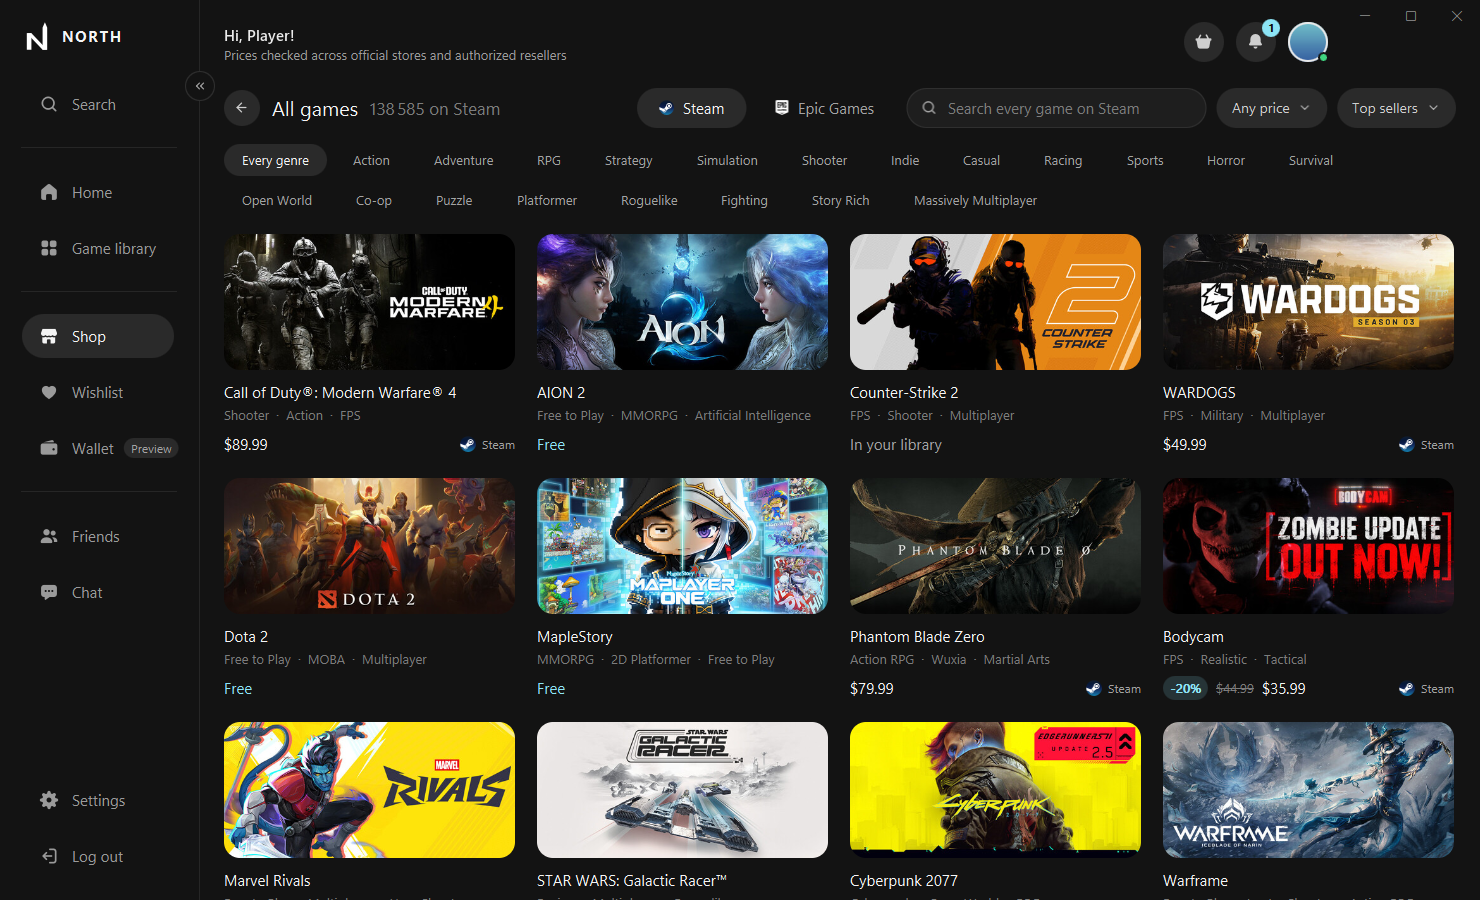
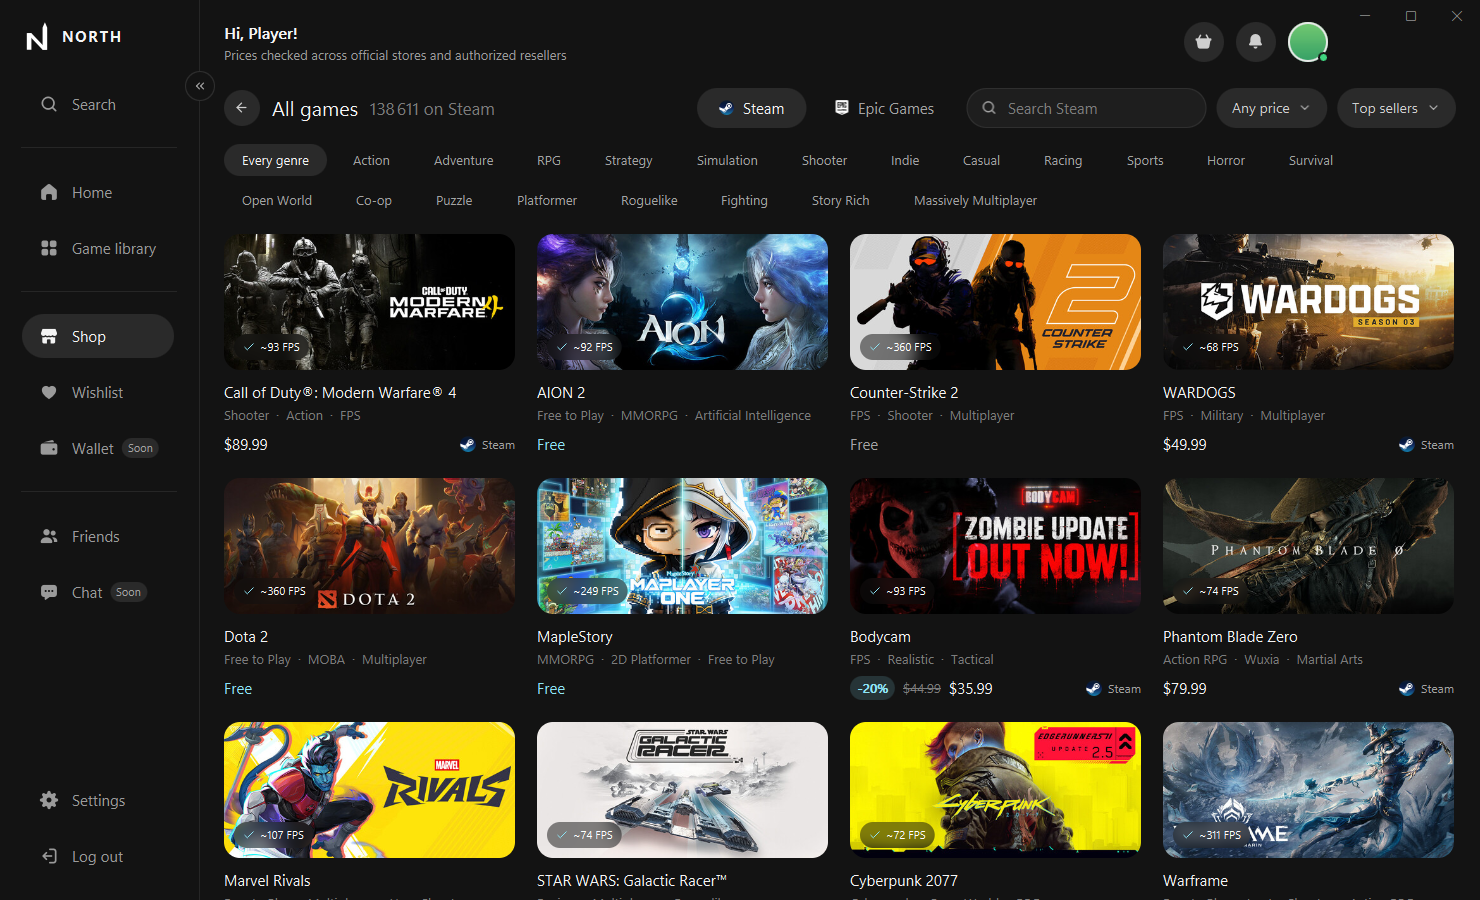
North 0.5.0: a warmer page, in English and French, with what's under the hood

diff --git a/README.md b/README.md
@@ -5,34 +5,68 @@
 <h1 align="center">North</h1>
 
 <p align="center">
-  <b>One library for every game you own.</b><br>
-  Steam, Epic Games, GOG, Amazon Games, Ubisoft Connect, EA, Battle.net and Rockstar, in one fast launcher.
+  <b>All your games. One home.</b><br>
+  Steam, Epic Games, GOG, Amazon Games, Ubisoft Connect, EA, Battle.net and Rockstar,<br>
+  together in one launcher that opens before you've let go of the mouse.
 </p>
 
 <p align="center">
-  <a href="https://github.com/JeremGamingYT/North-Launcher/releases/latest"><b>Download for Windows</b></a>
+  <a href="https://github.com/JeremGamingYT/North-Launcher/releases/latest"><b>⬇ Download for Windows</b></a>
   &nbsp;·&nbsp; Windows 10 and 11, 64-bit &nbsp;·&nbsp; free
+  <br><br>
+  <b>English</b> &nbsp;·&nbsp; <a href="README.fr.md">Français</a>
 </p>
 
 <p align="center">
   <img src="assets/screenshot-shop.png" alt="North's shop" width="100%">
 </p>
 
-## What North does
+## Why North?
 
-- **Your whole library in one place.** Every game from every account, with its real play time,
-  its achievements and the games installed on this PC.
-- **Install, update, play and uninstall.** On Steam, Epic, GOG and Amazon, from North itself.
-  Steam games can be installed without opening Steam, through Valve's own SteamCMD.
-- **A shop that compares.** Prices are checked across the official stores, with the best one
-  picked for you. It also has free games, deals, charts, a release calendar and a wishlist with
-  price alerts.
-- **It opens at once.** North shows its first screen about 50 ms after you start it.
-- **Universal search.** Every game you own or could buy, by name, genre or tag.
-- **Made for players.**
-  - "Can this PC run it?" for any game;
-  - controllers, the activity timeline and duplicates detection;
-  - game shortcuts and Discord status.
+You bought games on five stores over the years, and now each one wants its own launcher, its own
+updates and its own window in the notification area. Finding *that* game means remembering where
+you bought it.
+
+North puts them all back on one shelf. Your games, your play time and your achievements, from
+every account, in a launcher that's quick, quiet and pleasant to come back to. It runs on your PC
+only: no North account to create, no server of ours collecting your data.
+
+## What you get
+
+**🎮 One library**
+- Every game from every account, with its real play time and achievements.
+- Install, update, play and uninstall Steam, Epic, GOG and Amazon games from North itself.
+  Steam games can even be installed without opening Steam, through Valve's own SteamCMD.
+- Own a game on two stores? North tells you, and lets you pick which copy to install.
+- **Quick launch** (optional): press <kbd>Win</kbd>+<kbd>Alt</kbd>+<kbd>N</kbd> anywhere in
+  Windows, type a few letters, press Enter. You're playing.
+
+**🛒 A shop that looks out for you**
+- Prices compared across the official stores, with the best one picked for you.
+- Each game says whether **your PC can run it**, right on its card, deals included.
+- Already own it elsewhere? North warns you **before** you buy it a second time.
+- Free games, deals, charts, a release calendar, and a wishlist with price alerts.
+
+**📅 Your time, your way**
+- **Scheduled downloads:** updates (and new installs, if you like) wait for the night, or
+  whenever your connection is free.
+- Downloads pause while you play, then pick up where they left off.
+
+**✨ Your year in games**
+- A yearly review on your profile: hours played, your top games, month by month, when you play,
+  your genres and platforms, your longest session. Save it as a picture to share.
+
+**👋 North friends**
+- Swap North codes with a friend and see each other's North profile: play time, showcase, recent
+  games. Encrypted end to end, no account needed, no server of ours involved.
+
+**⚡ Fast, really**
+- The first screen shows about **50 ms** after you start North. While a game runs, North steps
+  aside and uses almost nothing.
+
+**🌍 In your language**
+- English, Français, Español, Deutsch, Italiano and Português (Brasil): the interface, but also
+  the shop's descriptions, the dates and the achievements.
 
 <p align="center">
   <img src="assets/screenshot-browse.png" alt="Every game on Steam and Epic" width="100%">
@@ -44,49 +78,87 @@ Take the files from the **[latest release](https://github.com/JeremGamingYT/Nort
 
 | File | For |
 |---|---|
-| `North-Setup-<version>.exe` | **Recommended.** Installs North for you alone, with no administrator rights, and adds it to the Start menu and *Apps*. It can also get the account tools right away (Epic, GOG, Amazon, SteamCMD), so signing in never waits. |
-| `North-<version>-win64.zip` | If you'd rather not run an installer. Unzip anywhere and start `North.exe`. The account tools download the first time they're needed. |
+| `North-Setup-<version>.exe` | **Recommended.** Installs North for you alone, with no administrator rights, and adds it to the Start menu and *Apps*. It asks a few first choices (opening animation, quick launch) and can get the account tools ready right away (Epic, GOG, Amazon, SteamCMD). |
+| `North-<version>-win64.zip` | If you'd rather not run an installer. Unzip anywhere and start `North.exe`. |
 | `SHA256SUMS.txt` | The fingerprints of both files. |
 
-To check a download, run this in PowerShell and compare with `SHA256SUMS.txt`:
-
-```powershell
-Get-FileHash .\North-Setup-0.4.0.exe -Algorithm SHA256
-```
+North then **updates itself**: it asks once per version, and every update is checked against
+North's signature before it runs.
 
 > **About the SmartScreen warning.** North isn't code-signed yet, so Windows may say it doesn't
-> recognise the publisher. Choose *More info* → *Run anyway*. You can also check the file's
-> fingerprint first, as above.
+> recognise the publisher. Choose *More info* → *Run anyway*. To be sure the file is the real one,
+> compare its fingerprint with `SHA256SUMS.txt` first:
+> ```powershell
+> Get-FileHash .\North-Setup-0.5.0.exe -Algorithm SHA256
+> ```
 
 ## Your accounts stay yours
 
 - **Your passwords are never kept.** They go straight to each platform's own sign-in.
 - **Sign-ins are encrypted on your PC** with Windows' own protection (DPAPI). Copied to another
   PC, they can't be read.
-- **North has no server.** Your library, settings and sign-ins live only on your PC. Your IP
-  address is seen only by the platforms North talks to, as with their own launchers.
-- **Every connection is HTTPS,** pictures included.
-- **Each tool North downloads is verified before it runs:** pinned fingerprints, or Valve's
-  signature for SteamCMD.
+- **North has no server.** Your library, settings and sign-ins live only on your PC.
+- **Every connection is encrypted** (HTTPS, pictures included), and each tool North downloads is
+  verified before it runs.
+- **North friends see only what you choose.** Set your profile to *Only you* and nothing is
+  published at all.
+
+## Under the hood
+
+For the curious. North is a native Windows application, built to start fast and stay light.
+
+| | |
+|---|---|
+| **Interface** | C++17 and Qt 5.15 Quick. The QML is compiled ahead of time; no interface source ships in the exe. |
+| **Rendering** | Direct3D 11 through ANGLE. About 120 ms sooner than the driver's OpenGL, same pixels. |
+| **Instant start** | A Win32 window paints the last first screen from its own thread before Qt is loaded (≈ 50 ms). The real window then takes its place on the same pixels. |
+| **Network** | WinHTTP (the system's TLS and certificates) on a dedicated pool; covers and store data are cached on disk and fetched ahead of where you point. |
+| **Stores** | Steam's Web API and SteamCMD; Epic, GOG and Amazon through the proven open-source tools [Legendary](https://github.com/legendary-gl/legendary), [gogdl](https://github.com/Heroic-Games-Launcher/heroic-gogdl) and [nile](https://github.com/imLinguin/nile), pinned and checked by SHA-256. |
+| **North friends** | A small Rust library inside North.exe speaking [Nostr](https://nostr.com): each profile is encrypted for one friend (NIP-44: secp256k1 ECDH, ChaCha20, HMAC-SHA256), signed (Schnorr) and passed through public relays over TLS. Relays only ever see opaque blobs. |
+| **Updates** | `update.json` signed with ECDSA P-256; the setup's size and SHA-256 are checked after download and again right before it runs. A security release can require every older version to update. |
+| **Hardening** | ASLR, DEP, Control Flow Guard (and CET shadow stacks in Setup); DLLs load only from North's folder and System32; no debug symbols, paths or keys in the binaries. |
+| **Footprint** | One ~10 MB executable plus Qt. No background service: North sleeps in the notification area, or not at all. |
+
+```mermaid
+flowchart LR
+  N[North.exe] -- Web API --> S[Steam]
+  N -- Legendary / gogdl / nile --> E[Epic · GOG · Amazon]
+  N -- reads local data --> L[Ubisoft · EA · Battle.net · Rockstar]
+  N -- encrypted profiles --> R[(Nostr relays)]
+  N -- signed update.json --> G[GitHub releases]
+```
+
+## Questions
+
+**Is North free?** Yes, to download and to use.
+
+**Does it replace Steam or Epic?** No, it works alongside them. Some games still need their
+store's launcher to run, and North never closes it behind your back.
+
+**Do I need a North account?** No. You sign in to your stores, and that's all.
+
+**Is the source code public?** Not for now. This repository holds the downloads and this page.
+
+**Something's wrong?** Open an [issue](https://github.com/JeremGamingYT/North-Launcher/issues).
+For a security problem, please write privately to the owner instead.
 
 ## Uninstall
 
-Go to *Settings › Apps › North › Uninstall*. Your games stay where they are. North's data
-(sign-ins, settings) is deleted only if you ask.
+*Settings › Apps › North › Uninstall.* Your games stay where they are. North's data (sign-ins,
+settings) is deleted only if you ask.
 
 ## Licences
 
-North is free to download and use; its source code isn't public. North includes or downloads
-third-party software, each under its own licence:
+North includes or downloads third-party software, each under its own licence:
 
 - **Qt 5.15**, LGPL-3.0. Dynamically linked and unmodified; source at
-  [download.qt.io](https://download.qt.io/archive/qt/5.15/).
-- **ANGLE**, BSD, shipped with Qt.
+  [download.qt.io](https://download.qt.io/archive/qt/5.15/). **ANGLE**, BSD, ships with Qt.
 - **QR Code generator** by Project Nayuki, MIT.
-- **Legendary, gogdl and nile**, GPL-3.0. They run as separate programs and are downloaded from
-  their official releases: [legendary](https://github.com/legendary-gl/legendary),
-  [heroic-gogdl](https://github.com/Heroic-Games-Launcher/heroic-gogdl),
-  [nile](https://github.com/imLinguin/nile).
+- **Rust libraries** inside North.exe ([nostr](https://github.com/rust-nostr/nostr), rustls, ring,
+  tungstenite, webpki-roots and their dependencies): MIT, Apache-2.0, ISC, BSD-3-Clause,
+  Unicode-3.0, CC0-1.0 and CDLA-Permissive-2.0.
+- **Legendary, gogdl and nile**, GPL-3.0. They run as separate programs, downloaded from their
+  official releases.
 - **SteamCMD,** Valve's own tool, downloaded from Valve.
 
 Steam, Epic Games, GOG, Amazon Games, Ubisoft Connect, EA, Battle.net and Rockstar are

diff --git a/README.fr.md b/README.fr.md
@@ -1,0 +1,174 @@
+<p align="center">
+  <img src="assets/north-256.png" width="96" alt="North">
+</p>
+
+<h1 align="center">North</h1>
+
+<p align="center">
+  <b>Tous vos jeux. Une seule maison.</b><br>
+  Steam, Epic Games, GOG, Amazon Games, Ubisoft Connect, EA, Battle.net et Rockstar,<br>
+  réunis dans un launcher qui s’ouvre avant que vous ayez lâché la souris.
+</p>
+
+<p align="center">
+  <a href="https://github.com/JeremGamingYT/North-Launcher/releases/latest"><b>⬇ Télécharger pour Windows</b></a>
+  &nbsp;·&nbsp; Windows 10 et 11, 64 bits &nbsp;·&nbsp; gratuit
+  <br><br>
+  <a href="README.md">English</a> &nbsp;·&nbsp; <b>Français</b>
+</p>
+
+<p align="center">
+  <img src="assets/screenshot-shop.png" alt="La boutique de North" width="100%">
+</p>
+
+## Pourquoi North ?
+
+Au fil des années, vous avez acheté des jeux sur cinq boutiques, et chacune veut maintenant son
+launcher, ses mises à jour et son icône dans la zone de notification. Retrouver *ce* jeu, c’est
+d’abord se souvenir d’où il vient.
+
+North les remet tous sur la même étagère. Vos jeux, votre temps de jeu et vos succès, de tous vos
+comptes, dans un launcher rapide, discret et agréable à retrouver. Il tourne uniquement sur votre
+PC : aucun compte North à créer, aucun serveur à nous qui collecterait vos données.
+
+## Ce que vous y trouvez
+
+**🎮 Une seule bibliothèque**
+- Tous les jeux de tous vos comptes, avec leur vrai temps de jeu et leurs succès.
+- Installez, mettez à jour, lancez et désinstallez vos jeux Steam, Epic, GOG et Amazon depuis
+  North. Les jeux Steam peuvent même s’installer sans ouvrir Steam, grâce à SteamCMD de Valve.
+- Un jeu possédé sur deux boutiques ? North vous le dit, et vous laisse choisir quel exemplaire
+  installer.
+- **Lancement rapide** (optionnel) : <kbd>Win</kbd>+<kbd>Alt</kbd>+<kbd>N</kbd> n’importe où dans
+  Windows, quelques lettres, Entrée. Vous jouez.
+
+**🛒 Une boutique qui veille sur vous**
+- Les prix comparés entre les boutiques officielles, le meilleur choisi pour vous.
+- Chaque jeu indique si **votre PC peut le faire tourner**, directement sur sa carte, promos
+  comprises.
+- Vous l’avez déjà ailleurs ? North vous prévient **avant** que vous l’achetiez une deuxième fois.
+- Jeux gratuits, promos, classements, calendrier des sorties et liste de souhaits avec alertes de
+  prix.
+
+**📅 Votre temps, à votre façon**
+- **Téléchargements planifiés :** les mises à jour (et les nouvelles installations, si vous
+  voulez) attendent la nuit, ou les heures où votre connexion est libre.
+- Les téléchargements se mettent en pause pendant que vous jouez, puis reprennent où ils en étaient.
+
+**✨ Votre année de jeu**
+- Un bilan annuel sur votre profil : heures jouées, vos jeux phares, mois par mois, vos moments
+  de jeu, vos genres et plateformes, votre plus longue session. Enregistrez-le en image pour le
+  partager.
+
+**👋 Amis North**
+- Échangez vos codes North avec un ami et voyez le profil North l’un de l’autre : temps de jeu,
+  vitrine, jeux récents. Chiffré de bout en bout, sans compte, sans aucun serveur à nous.
+
+**⚡ Rapide, vraiment**
+- Le premier écran s’affiche environ **50 ms** après le lancement. Pendant que vous jouez, North
+  s’efface et ne dessine plus rien.
+
+**🌍 Dans votre langue**
+- English, Français, Español, Deutsch, Italiano et Português (Brasil) : l’interface, mais aussi
+  les descriptions de la boutique, les dates et les succès.
+
+<p align="center">
+  <img src="assets/screenshot-browse.png" alt="Tous les jeux de Steam et d’Epic" width="100%">
+</p>
+
+## Télécharger
+
+Les fichiers sont dans la **[dernière version](https://github.com/JeremGamingYT/North-Launcher/releases/latest)**.
+
+| Fichier | Pour |
+|---|---|
+| `North-Setup-<version>.exe` | **Recommandé.** Installe North pour vous seul, sans droits administrateur, et l’ajoute au menu Démarrer et aux *Applications*. Il vous demande quelques premiers choix (animation d’ouverture, lancement rapide) et peut préparer tout de suite les outils de comptes (Epic, GOG, Amazon, SteamCMD). |
+| `North-<version>-win64.zip` | Si vous préférez ne pas lancer d’installateur. Décompressez où vous voulez et lancez `North.exe`. |
+| `SHA256SUMS.txt` | Les empreintes des deux fichiers. |
+
+Ensuite, North **se met à jour tout seul** : il vous le propose une fois par version, et chaque
+mise à jour est vérifiée avec la signature de North avant de s’exécuter.
+
+> **À propos de l’avertissement SmartScreen.** North n’est pas encore signé, Windows peut donc
+> dire qu’il ne reconnaît pas l’éditeur. Choisissez *Informations complémentaires* → *Exécuter
+> quand même*. Pour être sûr que le fichier est le bon, comparez d’abord son empreinte avec
+> `SHA256SUMS.txt` :
+> ```powershell
+> Get-FileHash .\North-Setup-0.5.0.exe -Algorithm SHA256
+> ```
+
+## Vos comptes restent les vôtres
+
+- **Vos mots de passe ne sont jamais gardés.** Ils vont directement à la connexion de chaque
+  plateforme.
+- **Vos connexions sont chiffrées sur votre PC** avec la protection de Windows (DPAPI). Copiées
+  sur un autre PC, elles sont illisibles.
+- **North n’a pas de serveur.** Votre bibliothèque, vos réglages et vos connexions restent sur
+  votre PC.
+- **Toutes les connexions sont chiffrées** (HTTPS, images comprises), et chaque outil que North
+  télécharge est vérifié avant de s’exécuter.
+- **Vos amis North ne voient que ce que vous choisissez.** Profil sur *Vous seul* : rien n’est
+  publié du tout.
+
+## Sous le capot
+
+Pour les curieux. North est une application Windows native, pensée pour démarrer vite et rester
+légère.
+
+| | |
+|---|---|
+| **Interface** | C++17 et Qt 5.15 Quick. Le QML est compilé à l’avance ; aucune source d’interface n’est livrée dans l’exe. |
+| **Rendu** | Direct3D 11 via ANGLE. Environ 120 ms plus tôt que l’OpenGL du pilote, au pixel près. |
+| **Démarrage instantané** | Une fenêtre Win32 peint le dernier premier écran depuis son propre thread avant même que Qt soit chargé (≈ 50 ms). La vraie fenêtre prend ensuite sa place sur les mêmes pixels. |
+| **Réseau** | WinHTTP (le TLS et les certificats du système) sur un pool dédié ; jaquettes et données des boutiques sont mises en cache sur disque et préchargées là où vous pointez. |
+| **Boutiques** | L’API Web de Steam et SteamCMD ; Epic, GOG et Amazon via les outils open source éprouvés [Legendary](https://github.com/legendary-gl/legendary), [gogdl](https://github.com/Heroic-Games-Launcher/heroic-gogdl) et [nile](https://github.com/imLinguin/nile), figés et vérifiés par SHA-256. |
+| **Amis North** | Une petite bibliothèque Rust dans North.exe qui parle [Nostr](https://nostr.com) : chaque profil est chiffré pour un seul ami (NIP-44 : ECDH secp256k1, ChaCha20, HMAC-SHA256), signé (Schnorr) et transmis par des relais publics en TLS. Les relais ne voient jamais que des données opaques. |
+| **Mises à jour** | `update.json` signé en ECDSA P-256 ; la taille et le SHA-256 de l’installateur sont vérifiés après le téléchargement, puis juste avant l’exécution. Une version de sécurité peut obliger toutes les anciennes à se mettre à jour. |
+| **Durcissement** | ASLR, DEP, Control Flow Guard (et CET shadow stacks dans le Setup) ; DLL chargées uniquement depuis le dossier de North et System32 ; ni symboles, ni chemins, ni clés dans les binaires. |
+| **Empreinte** | Un exécutable d’environ 10 Mo, plus Qt. Aucun service en arrière-plan : North attend dans la zone de notification, ou pas du tout. |
+
+```mermaid
+flowchart LR
+  N[North.exe] -- API Web --> S[Steam]
+  N -- Legendary / gogdl / nile --> E[Epic · GOG · Amazon]
+  N -- données locales --> L[Ubisoft · EA · Battle.net · Rockstar]
+  N -- profils chiffrés --> R[(Relais Nostr)]
+  N -- update.json signé --> G[Versions GitHub]
+```
+
+## Questions
+
+**North est-il gratuit ?** Oui, à télécharger comme à utiliser.
+
+**Remplace-t-il Steam ou Epic ?** Non, il fonctionne avec eux. Certains jeux ont encore besoin du
+launcher de leur boutique pour tourner, et North ne le ferme jamais dans votre dos.
+
+**Faut-il un compte North ?** Non. Vous vous connectez à vos boutiques, c’est tout.
+
+**Le code source est-il public ?** Pas pour l’instant. Ce dépôt contient les téléchargements et
+cette page.
+
+**Un problème ?** Ouvrez une [issue](https://github.com/JeremGamingYT/North-Launcher/issues).
+Pour un problème de sécurité, écrivez plutôt en privé au propriétaire.
+
+## Désinstaller
+
+*Paramètres › Applications › North › Désinstaller.* Vos jeux restent où ils sont. Les données de
+North (connexions, réglages) ne sont supprimées que si vous le demandez.
+
+## Licences
+
+North inclut ou télécharge des logiciels tiers, chacun sous sa propre licence :
+
+- **Qt 5.15**, LGPL-3.0. Lié dynamiquement et non modifié ; sources sur
+  [download.qt.io](https://download.qt.io/archive/qt/5.15/). **ANGLE**, BSD, livré avec Qt.
+- **QR Code generator** de Project Nayuki, MIT.
+- **Bibliothèques Rust** dans North.exe ([nostr](https://github.com/rust-nostr/nostr), rustls,
+  ring, tungstenite, webpki-roots et leurs dépendances) : MIT, Apache-2.0, ISC, BSD-3-Clause,
+  Unicode-3.0, CC0-1.0 et CDLA-Permissive-2.0.
+- **Legendary, gogdl et nile**, GPL-3.0. Programmes séparés, téléchargés depuis leurs versions
+  officielles.
+- **SteamCMD,** l’outil de Valve, téléchargé chez Valve.
+
+Steam, Epic Games, GOG, Amazon Games, Ubisoft Connect, EA, Battle.net et Rockstar sont des
+marques de leurs propriétaires. North n’est affilié à aucun d’eux.
